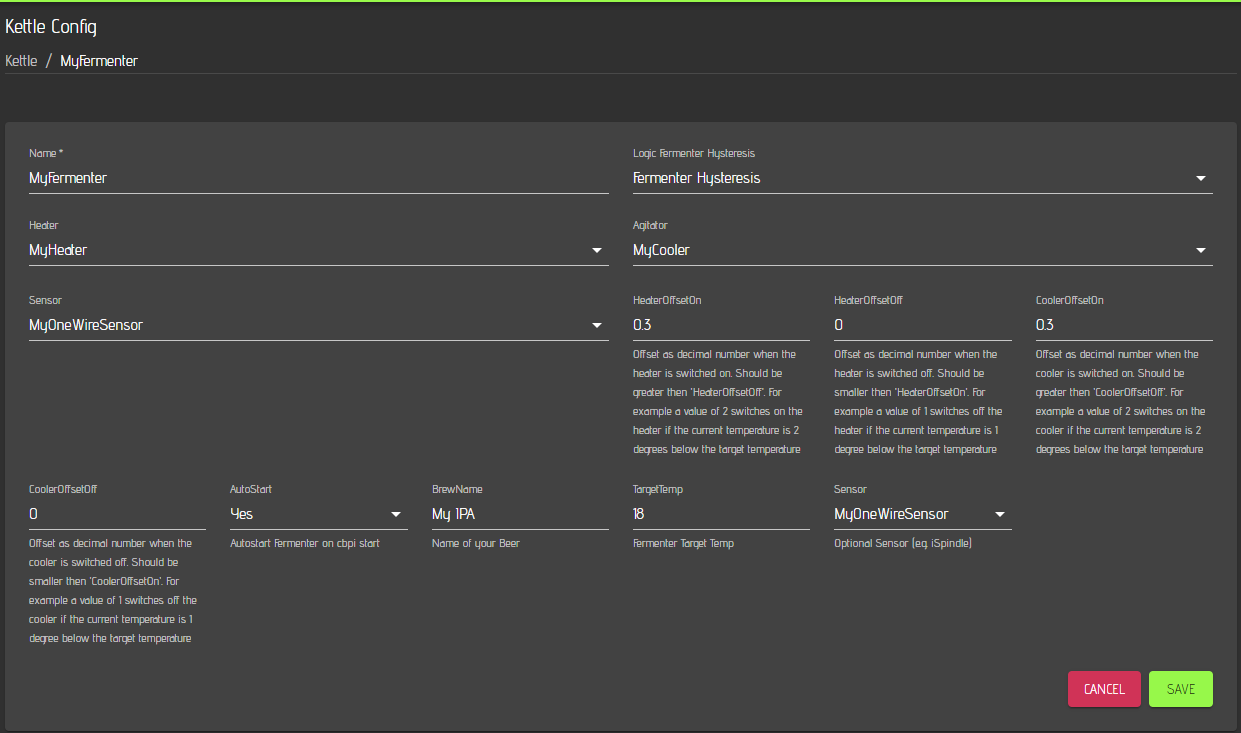
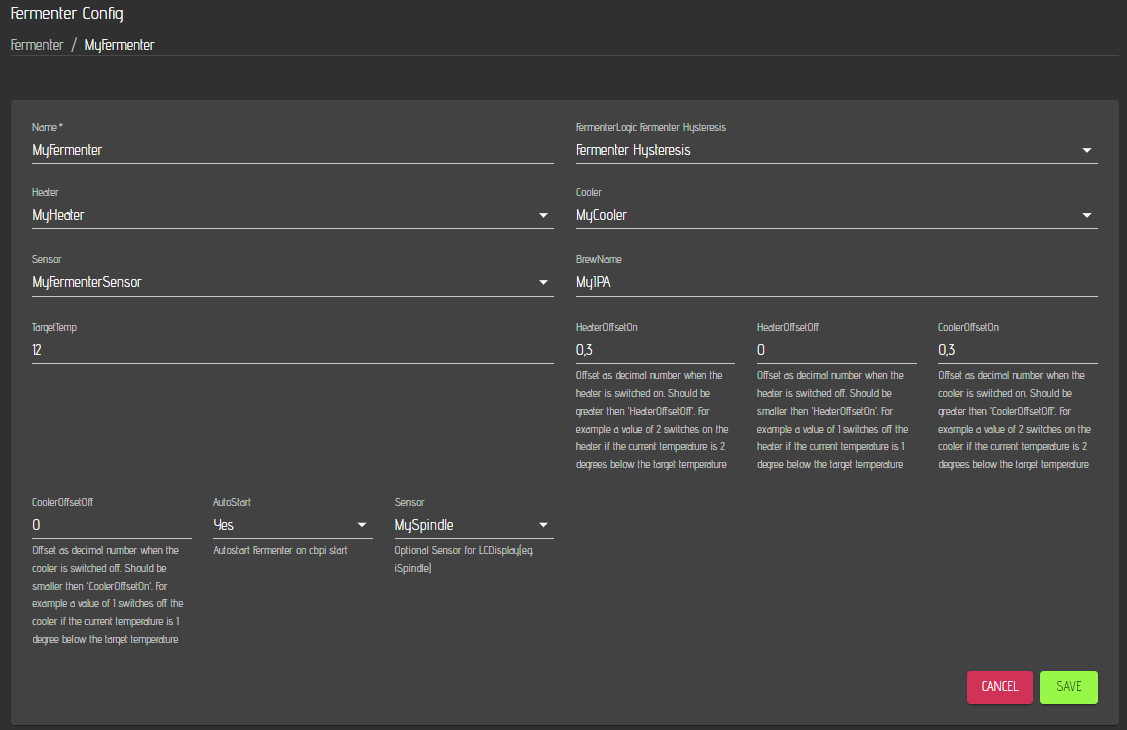
Update on Fermenter Hardware

diff --git a/master/craftbeerpi-4-server/hardware.md b/master/craftbeerpi-4-server/hardware.md
@@ -1,6 +1,6 @@
 # Hardware
 
-On the hardware page, you can set up your sensors, actors and kettles. As sensor, a onewire sensor comes with cbpi4. If you need other [sensors](../plugin-installation.md#sensors), you can install them with a plugin. The default Actor is the GPIO actor that is also part of cbpi4. Other actor types can be installed via a [plugin](../plugin-installation.md#actors). The default kettle logic is a simple hysteresis. If you want to use a more sophisticated kettle logic such as a PID based logic, you will also add them via a [plugin](../plugin-installation.md#kettle-controller).
+On the hardware page, you can set up your sensors, actors, kettles and fermenters. As sensor, a onewire sensor comes with cbpi4. If you need other [sensors](../plugin-installation.md#sensors), you can install them with a plugin. The default Actor is the GPIO actor that is also part of cbpi4. Other actor types can be installed via a [plugin](../plugin-installation.md#actors). The default kettle logic is a simple hysteresis. If you want to use a more sophisticated kettle logic such as a PID based logic, you will also add them via a [plugin](../plugin-installation.md#kettle-controller).
 
 ![Empty Hardware page after first start](../../.gitbook/assets/cbp4\_hardwareempty.png)
 
@@ -106,15 +106,13 @@ In the next step you should go to the [settings ](settings.md)page to define som
 
 ## Setting up the hardware for Fermentation
 
-Currently, CraftbeerPi4 has not the native capabilities to add fermenters. However, there is one Kettle Logic plugin available that is able to turn a regular kettle into a fermenter. As a first step, you will need to install the [Fermenter Hysteresis Plugin](https://github.com/avollkopf/cbpi4-FermenterHysteresis) as described in the [Plugin installation](../plugin-installation.md) part. Details can be also found on the link to the plugin.
+If you want to use your system also for fermentation, you can set up fermenters in the same way as kettles. Currently, CraftbeerPi4 has one Fermenter Logic plugin included which is based on a hysteresis logic. 
 
-The next steps are basically the same as for a regular kettle. You need to [define a sensor ](hardware.md#setting-up-a-sensor)for the temperature measurement of your fermenter. In addition you will need to [define an actor ](hardware.md#setting-up-an-actor)for heating and another actor for cooling as described above.
+Add a fermenter on the hardware page, enter a name for your fermenter and choose Fermenter Hysteresis as logic.
 
-Then add another kettle on the hardware page, enter a name for your fermenter and choose Fermenter Hysteresis as kettle logic. This will only show up if you have installed and added the p0lugin correctly to your server.
+![Adding a fermenter](../../.gitbook/assets/cbpi4-kettle-fermenterlogic.png)
 
-![Adding a Kettle as fermenter](../../.gitbook/assets/cbpi4-kettle-fermenterlogic.png)
-
-Once you have selected Fermenter Hysteresis as Logic, you will see more properties that you need to define. As mentioned, you need to define a heater and cooler for your fermenter. Then define the temperature sensor you are using for your fermenter.&#x20;
+Once you have selected Fermenter Hysteresis as Logic, you will see more properties that you need to define. The steps to set up a fermenter are basically the same as for a regular kettle. You need to [define a sensor ](hardware.md#setting-up-a-sensor)for the temperature measurement of your fermenter. In addition you will need to [define an actor ](hardware.md#setting-up-an-actor)for heating and another actor for cooling as described above.&#x20;
 
 Afterwards, you need to define the offset values for the hysteresis for both, cooler and heater.&#x20;
 
@@ -128,17 +126,21 @@ HeaterOffsetOff: Offset below the target temperature when the heater switches of
 HeaterOffsetOn has to be larger than HeaterOffsetOff
 
 
-
 CoolerOffsetOn: Offset above target temperature when the cooler switches on. E.g. 0.3 means the cooler switches on, if the current temperature is 0.3° or more above the target temperature.&#x20;
 
 CoolerOffsetOff: Offset above the target temperature when the cooler switches off. E.g. 0.1 means the cooler is switching off, if the current temperature is 0.1° above the target temp.
 
 CoolerOffsetOn has to be larger than CoolerOffsetOff
+
+BrewName: Name of your beer in femrentation. Will be for instance shown in the LCDisplay Plugin
+
+TargetTemp: Target temprature for your femrnetation process. This will be used for the automode. Howerver, you can set this also via the fermentercontrol item
+
 {% endhint %}
 
 The parameter Autostart defines if the fermentation logic should start automatically on a reboot or restart of CraftbeerPi4. You can enter a Name for your current fermentation. This will be used by the modified [LCDisplay Plugin](hardware.md#setting-up-the-hardware-for-brewing) and shown on the display for each fermenter during fermentation activity. The same is true for the second sensor. You can for instance use here a iSpindle and display the current gravity on your LCD Screen.
 
-You also need to define your fermentation target temperature in the kettle properties as this is just a workaround for fermentation with the existing system.
+You can also define your fermentation target temperature in the fermenter properties, but this can be also set via the fermenter controll on the dashboard.
 
 {% hint style="info" %}
 Don't forget to set Automode to 'No' whenever you have no active fermentation as it will switch on your logic after every restart of CraftbeerPi4
